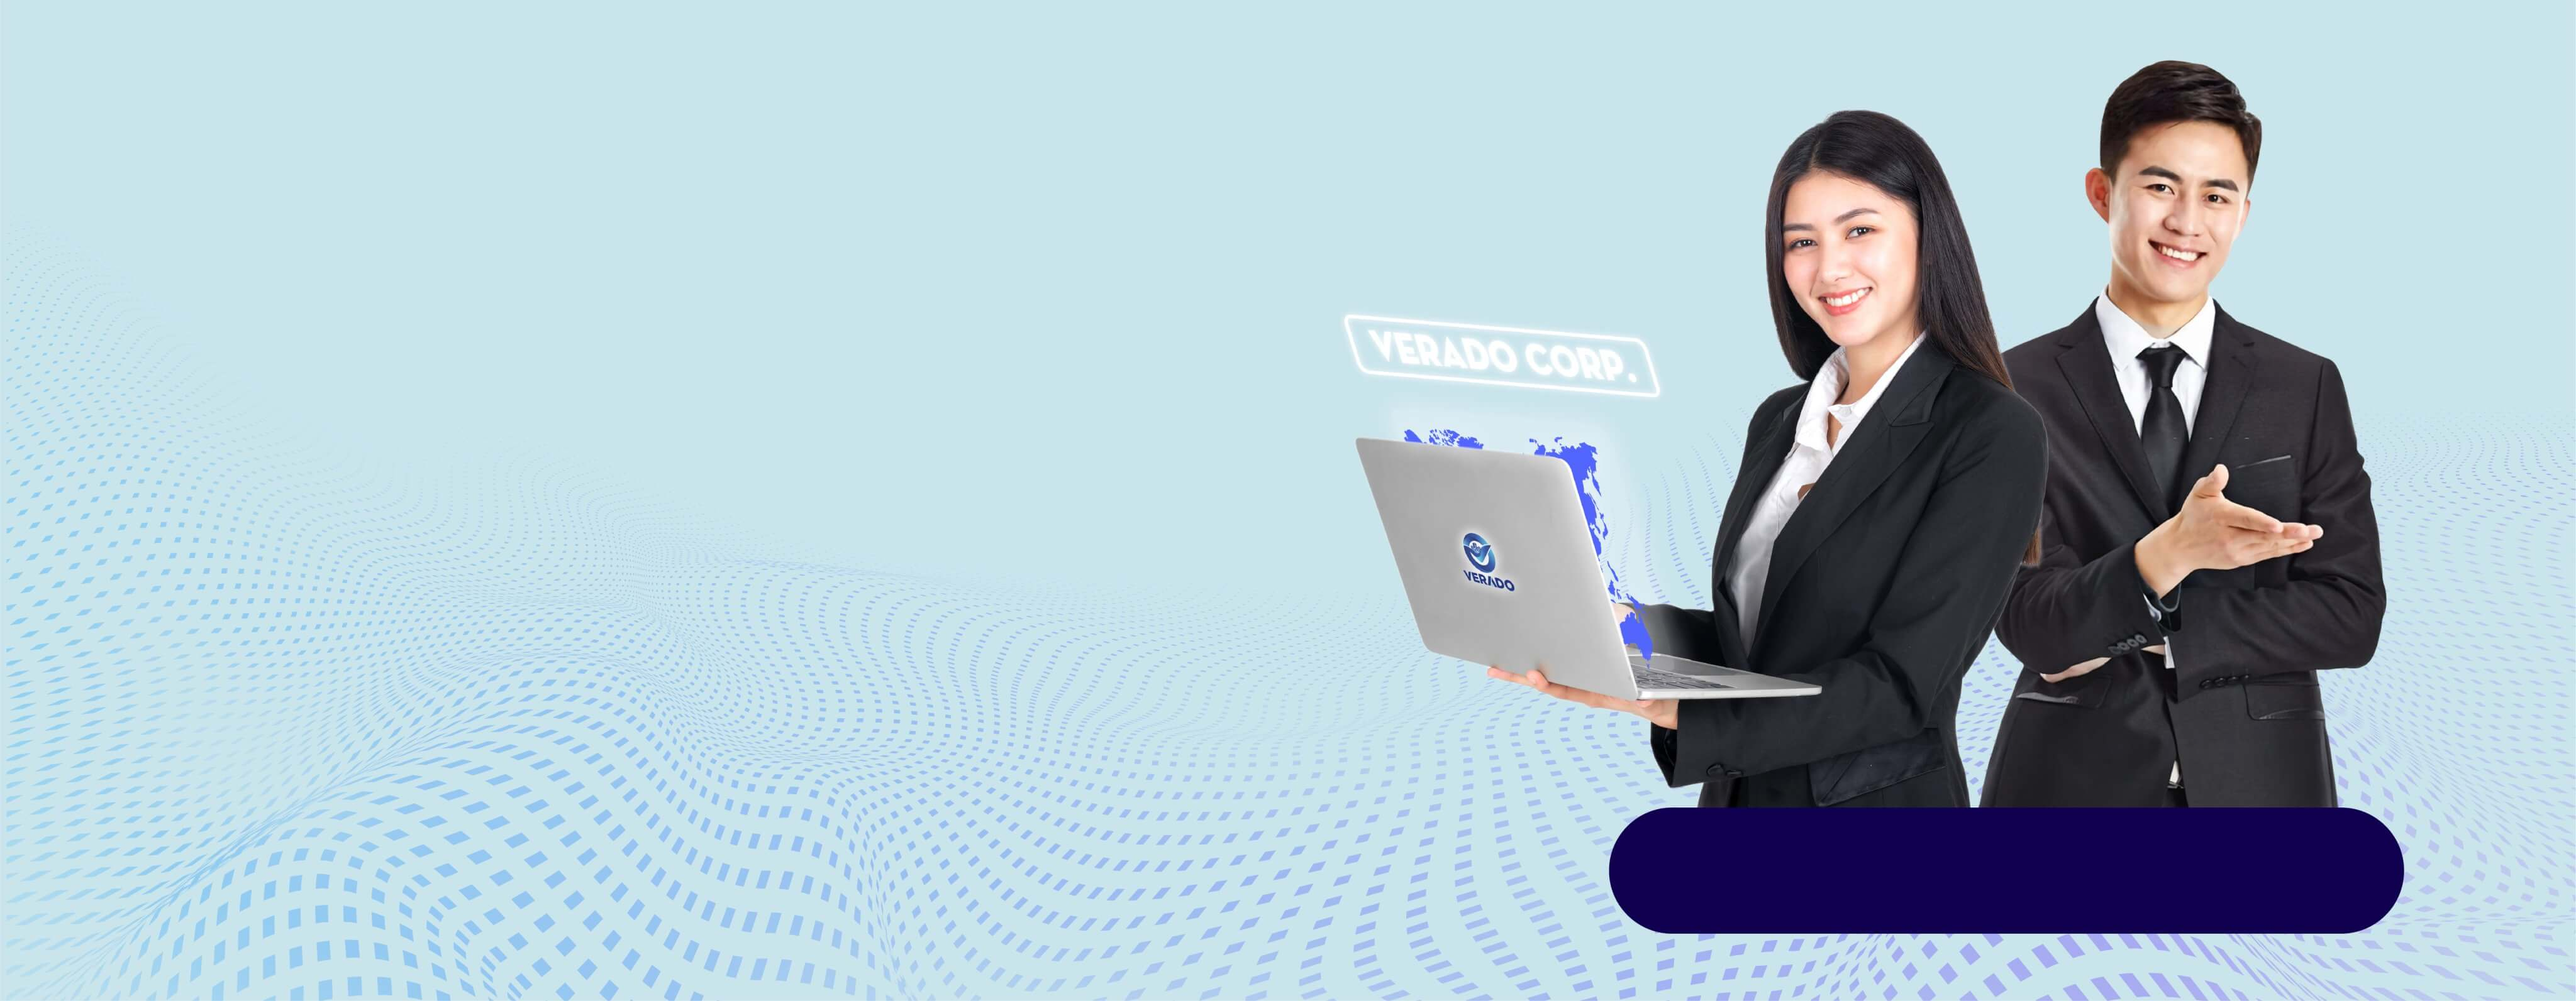
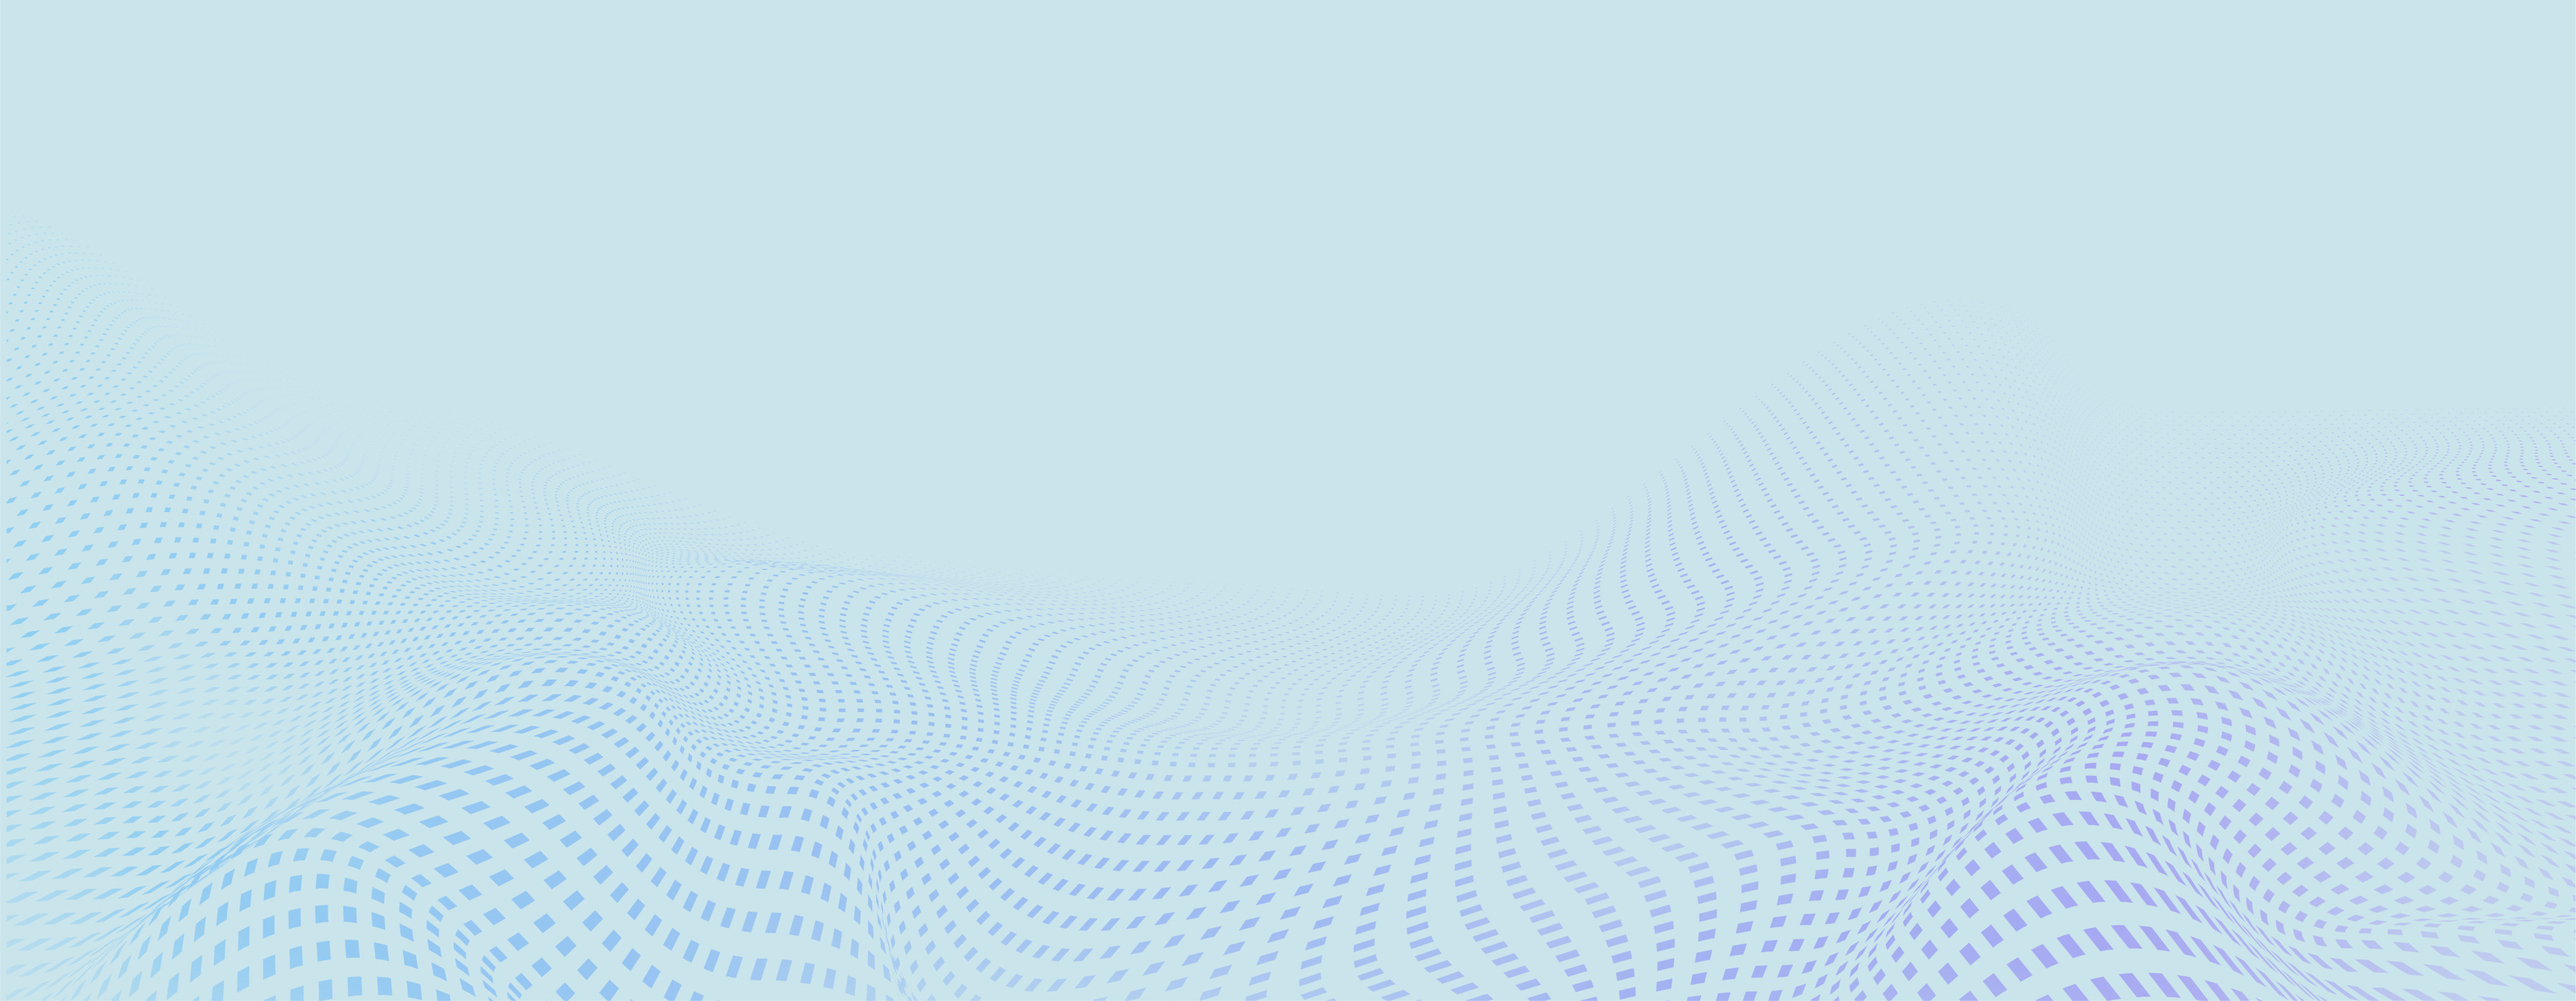
Update background

Changed region(s): [[0.5, 0.0615, 0.9375, 0.9535], [0.5312, 0.3076, 0.6562, 0.3999]]

diff --git a/components/Layouts/Section/PartnerSection.tsx b/components/Layouts/Section/PartnerSection.tsx
@@ -38,13 +38,15 @@ const PartnerSection: React.FC = () => {
     <>
       <div className="flex items-center">
         <Heading title="Đối tác của" />
-        <Image
-          src="/logo.jpg"
-          width={100}
-          height={20}
-          layout="responsive"
-          alt=""
-        />
+        <div className="mb-1 ml-3">
+          <Image
+            src="/logo-color.png"
+            width={140}
+            height={40}
+            objectFit="contain"
+            alt=""
+          />
+        </div>
       </div>
       <div className="swiper-container relative">
         <Swiper

diff --git a/components/Layouts/Section/WhySection.tsx b/components/Layouts/Section/WhySection.tsx
@@ -8,13 +8,15 @@ const WhySection: React.FC = () => {
     <>
       <div className="flex items-center">
         <Heading title="tại sao nên chọn" />
-        <Image
-          src="/logo.jpg"
-          width={100}
-          height={20}
-          layout="responsive"
-          alt=""
-        />
+        <div className="mb-1 ml-3">
+          <Image
+            src="/logo-color.png"
+            width={140}
+            height={40}
+            objectFit="contain"
+            alt=""
+          />
+        </div>
       </div>
 
       <div className="grid grid-cols-3 gap-8">

diff --git a/components/Layouts/Footer/index.tsx b/components/Layouts/Footer/index.tsx
@@ -6,8 +6,11 @@ import LinkButton from '../../Elements/LinkButton';
 
 const Footer = () => {
   return (
-    <footer className="bg-primary text-white">
-      <div className="container mx-auto py-12">
+    <footer className="relative block bg-primary text-white">
+      <div className="z-0">
+        <Image src="/bg-footer.jpg" layout="fill" objectFit="fill" alt="" />
+      </div>
+      <div className="container relative mx-auto py-12">
         <div className="grid grid-cols-10 gap-12">
           <div className="col-span-2">
             <Image

diff --git a/components/Layouts/Header/index.tsx b/components/Layouts/Header/index.tsx
@@ -47,7 +47,6 @@ const Header: React.FC = () => {
               <div className="relative z-0 h-[144px]">
                 <Image
                   src="/bg-head.jpg"
-                  height={100}
                   layout="fill"
                   objectFit="fill"
                   alt=""
